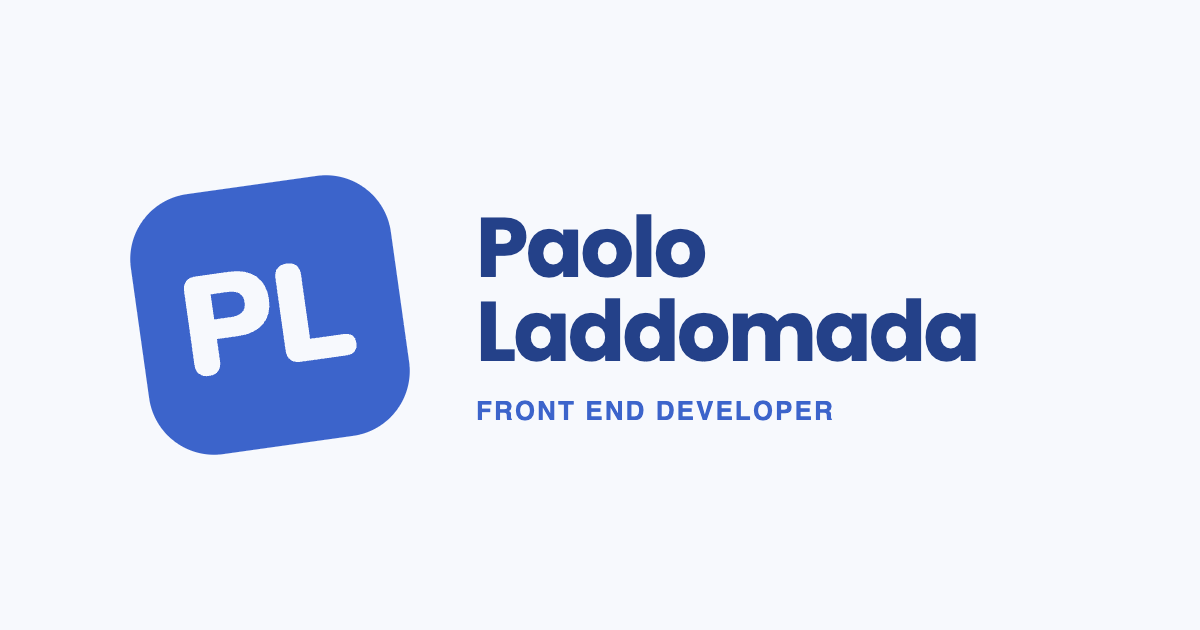
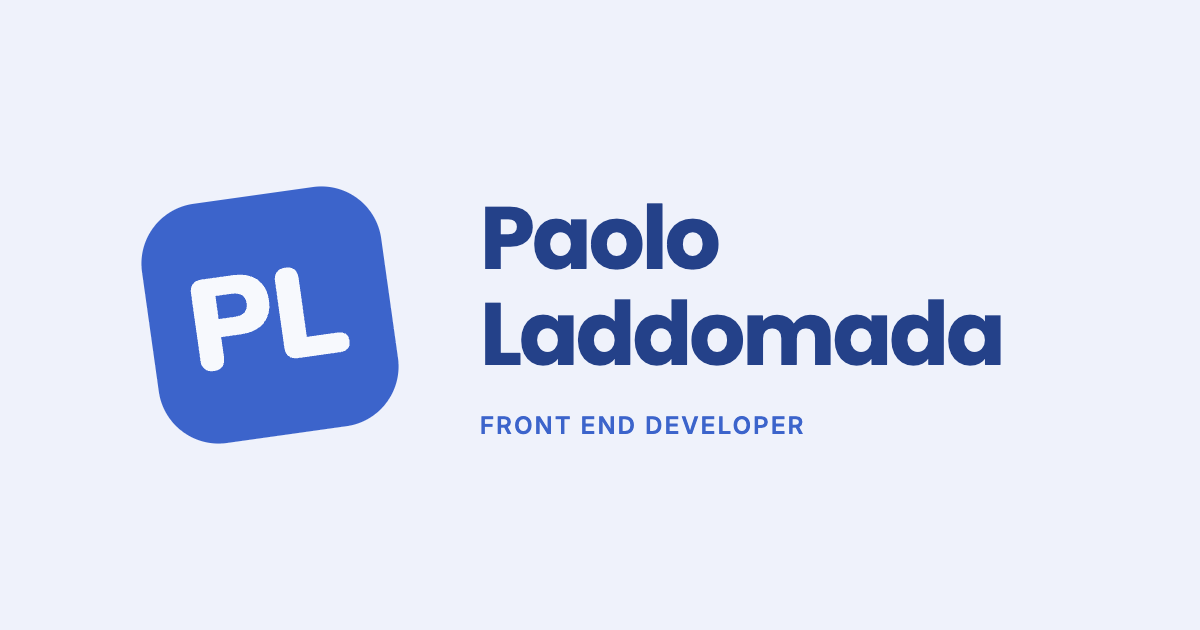
PWA: installabile e consultabile offline
- Service worker: pagine prima dalla rete con copia per l'offline, risorse con hash prima dalla cache; pagina "Sei offline" tradotta per le pagine mai visitate
- Manifest per ogni lingua, con scorciatoie ai progetti e icona maskable
- Icone, anteprima social e colori aggiornati al fondo attuale (#EFF2FB); npm run icone le rigenera

Changed region(s): [[0.4008, 0.3016, 0.8325, 0.6032], [0.0925, 0.2714, 0.3392, 0.7238], [0.4008, 0.6333, 0.7092, 0.6937]]

diff --git a/src/pages/sw.js.ts b/src/pages/sw.js.ts
@@ -1,0 +1,66 @@
+import type { APIRoute } from "astro";
+import { indirizzo, lingue } from "../i18n";
+
+// Cambia a ogni build: il service worker nuovo prende il posto del vecchio e ne cancella le cache.
+const versione = Date.now().toString(36);
+
+// Pagine da avere subito offline: la home e la pagina "Sei offline" di ogni lingua.
+const precarica = lingue.flatMap((l) => [indirizzo(l), indirizzo(l, "offline/")]);
+
+const codice = /* js */ `
+const VERSIONE = ${JSON.stringify(versione)};
+const PAGINE = "pagine-" + VERSIONE;
+const RISORSE = "risorse-" + VERSIONE;
+const PRECARICA = ${JSON.stringify(precarica)};
+const LINGUE = ${JSON.stringify(lingue.filter((l) => l !== "it"))};
+
+self.addEventListener("install", (e) => {
+  e.waitUntil(caches.open(PAGINE).then((c) => c.addAll(PRECARICA)).then(() => self.skipWaiting()));
+});
+
+self.addEventListener("activate", (e) => {
+  e.waitUntil(
+    caches
+      .keys()
+      .then((nomi) => Promise.all(nomi.filter((n) => n !== PAGINE && n !== RISORSE).map((n) => caches.delete(n))))
+      .then(() => self.clients.claim()),
+  );
+});
+
+const offline = (url) => {
+  const lingua = LINGUE.find((l) => url.pathname.startsWith("/" + l + "/"));
+  return lingua ? "/" + lingua + "/offline/" : "/offline/";
+};
+
+// Scarica dalla rete e salva una copia in cache; la copia si fa prima di restituire la risposta, che poi la pagina consuma.
+const salva = (cache, chiave, req) =>
+  fetch(req).then((r) => {
+    if (r.ok) {
+      const copia = r.clone();
+      caches.open(cache).then((c) => c.put(chiave, copia));
+    }
+    return r;
+  });
+
+self.addEventListener("fetch", (e) => {
+  const req = e.request;
+  const url = new URL(req.url);
+  if (req.method !== "GET" || url.origin !== location.origin) return;
+
+  // Pagine: prima la rete, così si vede sempre l'ultima versione; senza rete la copia salvata o la pagina offline.
+  if (req.mode === "navigate") {
+    e.respondWith(
+      salva(PAGINE, url.pathname, req).catch(() => caches.match(url.pathname).then((r) => r || caches.match(offline(url)))),
+    );
+    return;
+  }
+
+  // File con hash nel nome (/_astro/), font, icone e immagini: non cambiano, prima la cache.
+  if (url.pathname.startsWith("/_astro/") || /\\.(png|svg|webp|jpg|woff2|webmanifest)$/.test(url.pathname)) {
+    e.respondWith(caches.match(req).then((salvata) => salvata || salva(RISORSE, req, req)));
+  }
+});
+`;
+
+export const GET: APIRoute = () =>
+  new Response(codice, { headers: { "Content-Type": "text/javascript; charset=utf-8" } });

diff --git a/src/pages/[...lang]/manifest.webmanifest.ts b/src/pages/[...lang]/manifest.webmanifest.ts
@@ -1,0 +1,42 @@
+import type { APIRoute, GetStaticPaths } from "astro";
+import { getCollection } from "astro:content";
+import { i18n, indirizzo, lingueEstere, tr } from "../../i18n";
+
+export const getStaticPaths: GetStaticPaths = () => [{ params: { lang: undefined } }, ...lingueEstere.map((lang) => ({ params: { lang } }))];
+
+// Un manifest per lingua: installata da /en/ l'app parte in inglese e mostra i nomi in inglese.
+export const GET: APIRoute = async ({ params }) => {
+  const { l, t } = i18n(params);
+  const progetti = (await getCollection("progetti")).sort((a, b) => a.data.ordine - b.data.ordine);
+  const home = indirizzo(l);
+  return new Response(
+    JSON.stringify({
+      id: "/",
+      name: t("homeTitolo"),
+      short_name: t("appBreve"),
+      description: t("homeDescrizione"),
+      lang: l,
+      dir: "ltr",
+      start_url: home,
+      scope: "/",
+      display: "standalone",
+      background_color: "#EFF2FB",
+      theme_color: "#EFF2FB",
+      categories: ["portfolio", "design", "developer"],
+      icons: [
+        { src: "/icon-192.png", sizes: "192x192", type: "image/png", purpose: "any" },
+        { src: "/icon-512.png", sizes: "512x512", type: "image/png", purpose: "any" },
+        { src: "/icon-maskable-512.png", sizes: "512x512", type: "image/png", purpose: "maskable" },
+        { src: "/favicon.svg", sizes: "any", type: "image/svg+xml", purpose: "any" },
+      ],
+      shortcuts: progetti.map((p) => ({
+        name: p.data.nome,
+        short_name: tr(p.data.titolo, l),
+        description: tr(p.data.descrizione, l),
+        url: indirizzo(l, `${p.id}/`),
+        icons: [{ src: "/icon-192.png", sizes: "192x192", type: "image/png" }],
+      })),
+    }),
+    { headers: { "Content-Type": "application/manifest+json" } },
+  );
+};

diff --git a/src/i18n.ts b/src/i18n.ts
@@ -12,6 +12,17 @@ export const tr = (t: Testo, l: Lingua) => (typeof t === "string" ? t : t[l]);
 export const indirizzo = (l: Lingua, pagina = "") => (l === "it" ? "/" : `/${l}/`) + pagina;
 
 const ui = {
+  appBreve: { it: "Portfolio", en: "Portfolio", es: "Portafolio", fr: "Portfolio", de: "Portfolio" },
+  offlineTitolo: { it: "Sei offline", en: "You’re offline", es: "Estás sin conexión", fr: "Vous êtes hors ligne", de: "Du bist offline" },
+  offlineTesto: {
+    it: "Questa pagina non è ancora salvata sul dispositivo. Le pagine già visitate restano disponibili anche senza connessione.",
+    en: "This page isn’t saved on your device yet. Pages you’ve already visited stay available without a connection.",
+    es: "Esta página aún no está guardada en tu dispositivo. Las páginas que ya visitaste siguen disponibles sin conexión.",
+    fr: "Cette page n’est pas encore enregistrée sur votre appareil. Les pages déjà visitées restent disponibles hors ligne.",
+    de: "Diese Seite ist noch nicht auf deinem Gerät gespeichert. Bereits besuchte Seiten bleiben auch ohne Verbindung verfügbar.",
+  },
+  riprova: { it: "Riprova", en: "Try again", es: "Reintentar", fr: "Réessayer", de: "Erneut versuchen" },
+  tornaHome: { it: "Torna alla home", en: "Back to home", es: "Volver al inicio", fr: "Retour à l’accueil", de: "Zur Startseite" },
   homeTitolo: { it: "Paolo Laddomada · Portfolio", en: "Paolo Laddomada · Portfolio", es: "Paolo Laddomada · Portafolio", fr: "Paolo Laddomada · Portfolio", de: "Paolo Laddomada · Portfolio" },
   homeDescrizione: {
     it: "Portfolio di Paolo Laddomada, Front End Developer.",
